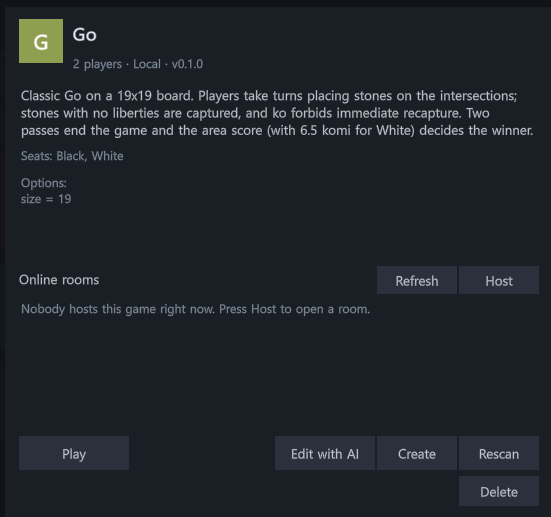
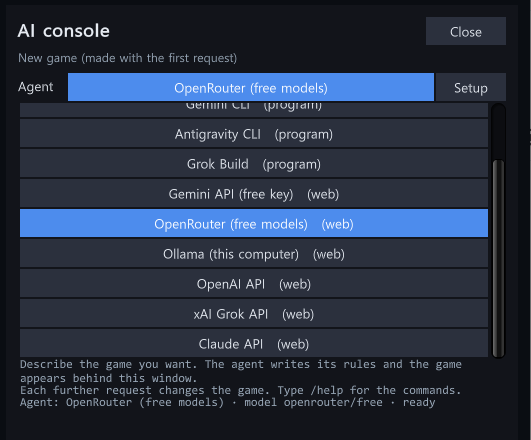
Readme 업데이트

diff --git a/README_EN.md b/README_EN.md
@@ -68,9 +68,12 @@ To avoid affecting the ongoing game state, the current board state is restored i
 
 When you describe the rules of a desired board game in natural language inside the in-game AI console, the integrated AI agent automatically generates `config.json` and Luau scripts.
 
-![Edit with AI](Image/EditwithAI.png)
+![Go](Image/Go.png)
 
 * **Supported Agents**: Claude Code, Codex CLI, Gemini CLI, Antigravity, Grok, local Ollama, and OpenAI-compatible API endpoints
+
+![Edit with AI](Image/Go.png)
+
 * **Automated Validation and Self-Correction**: The engine immediately loads the generated mod and simulates up to 60 random moves; if an error occurs, the error log is fed back to the agent so it can self-correct (up to 2 retries).
 * **Safety and Recovery**: You can revert to previous versions of files at any time using the `/undo` command, and user prompts are passed securely via standard input (`stdin`) or temporary files to prevent command-line argument exposure.
 

diff --git a/README.md b/README.md
@@ -68,9 +68,12 @@
 
 게임 내 AI 콘솔에 원하는 보드게임의 규칙을 자연어로 설명하면 연동된 AI 에이전트가 `config.json`과 Luau 스크립트를 자동으로 생성합니다.
 
-![Edit with AI](Image/EditwithAI.png)
+![Go](Image/Go.png)
 
 * **지원 에이전트**: Claude Code, Codex CLI, Gemini CLI, Antigravity, Grok, 로컬 Ollama 및 OpenAI 호환 API 엔드포인트
+
+![Edit with AI](Image/EditwithAI.png)
+
 * **자동 검증 및 자가 수정**: 엔진이 생성된 모드를 즉시 로드해 무작위 수를 최대 60수까지 시뮬레이션하며, 오류 발생 시 에러 로그를 에이전트에게 전달해 스스로 수정하도록 합니다(최대 2회 재시도).
 * **안전성 및 복구**: `/undo` 명령어로 언제든 이전 버전의 파일로 되돌릴 수 있으며, 사용자 프롬프트는 커맨드라인 인자 노출을 피해 표준 입력(stdin)이나 임시 파일로만 안전하게 전달됩니다.
 
